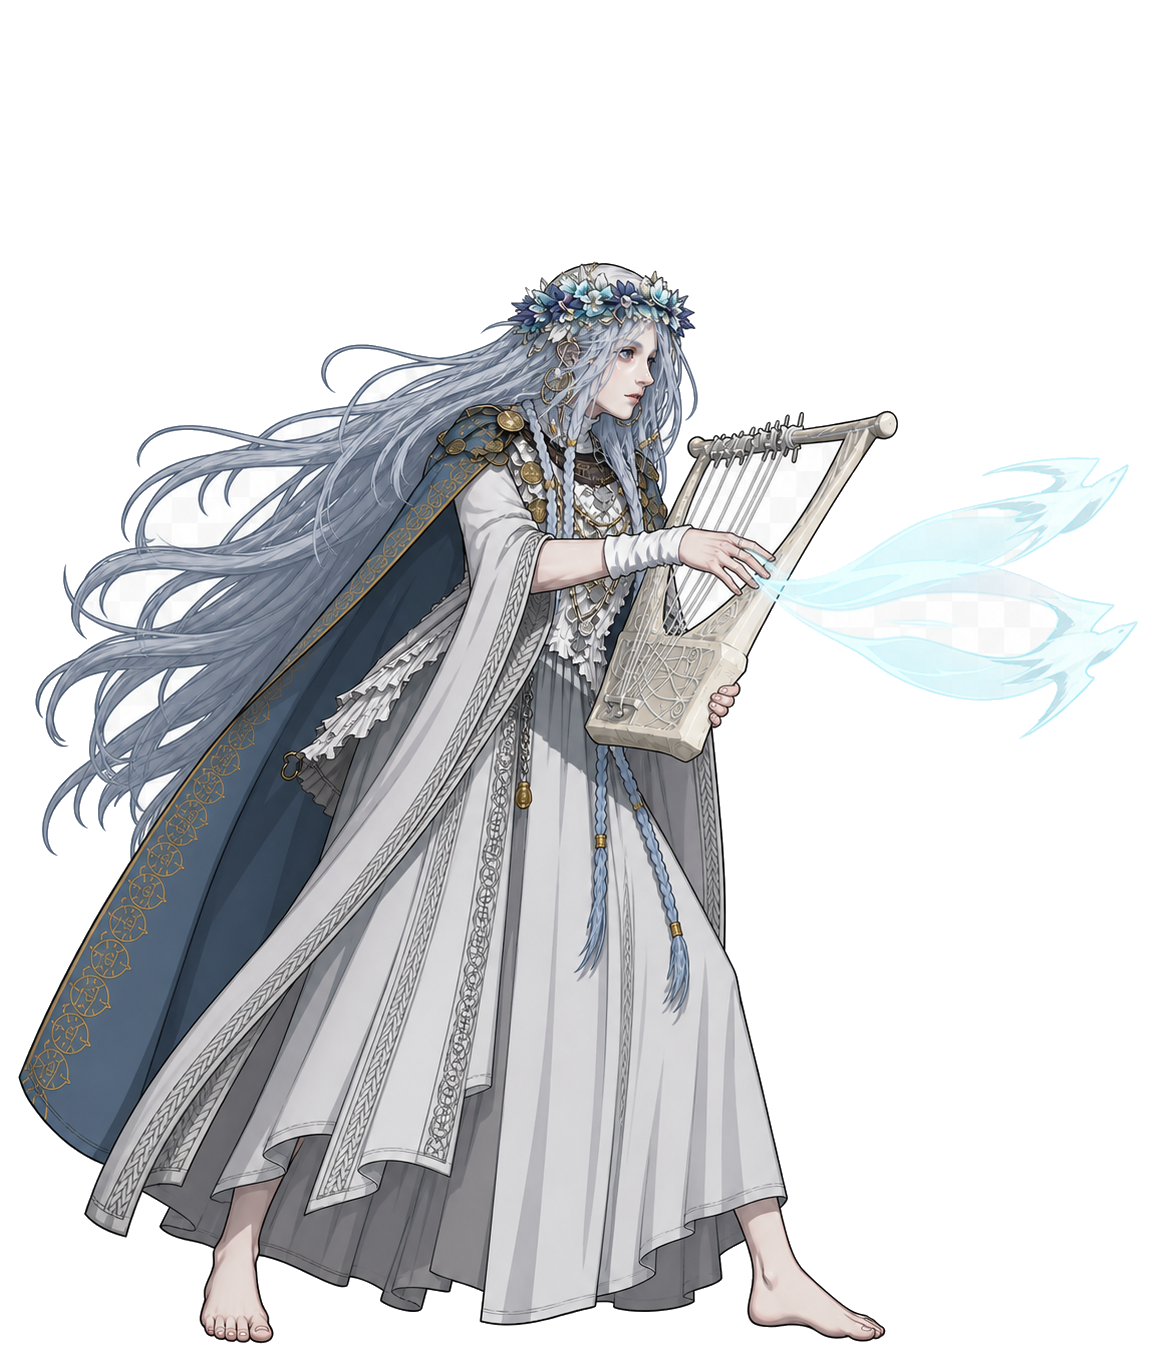
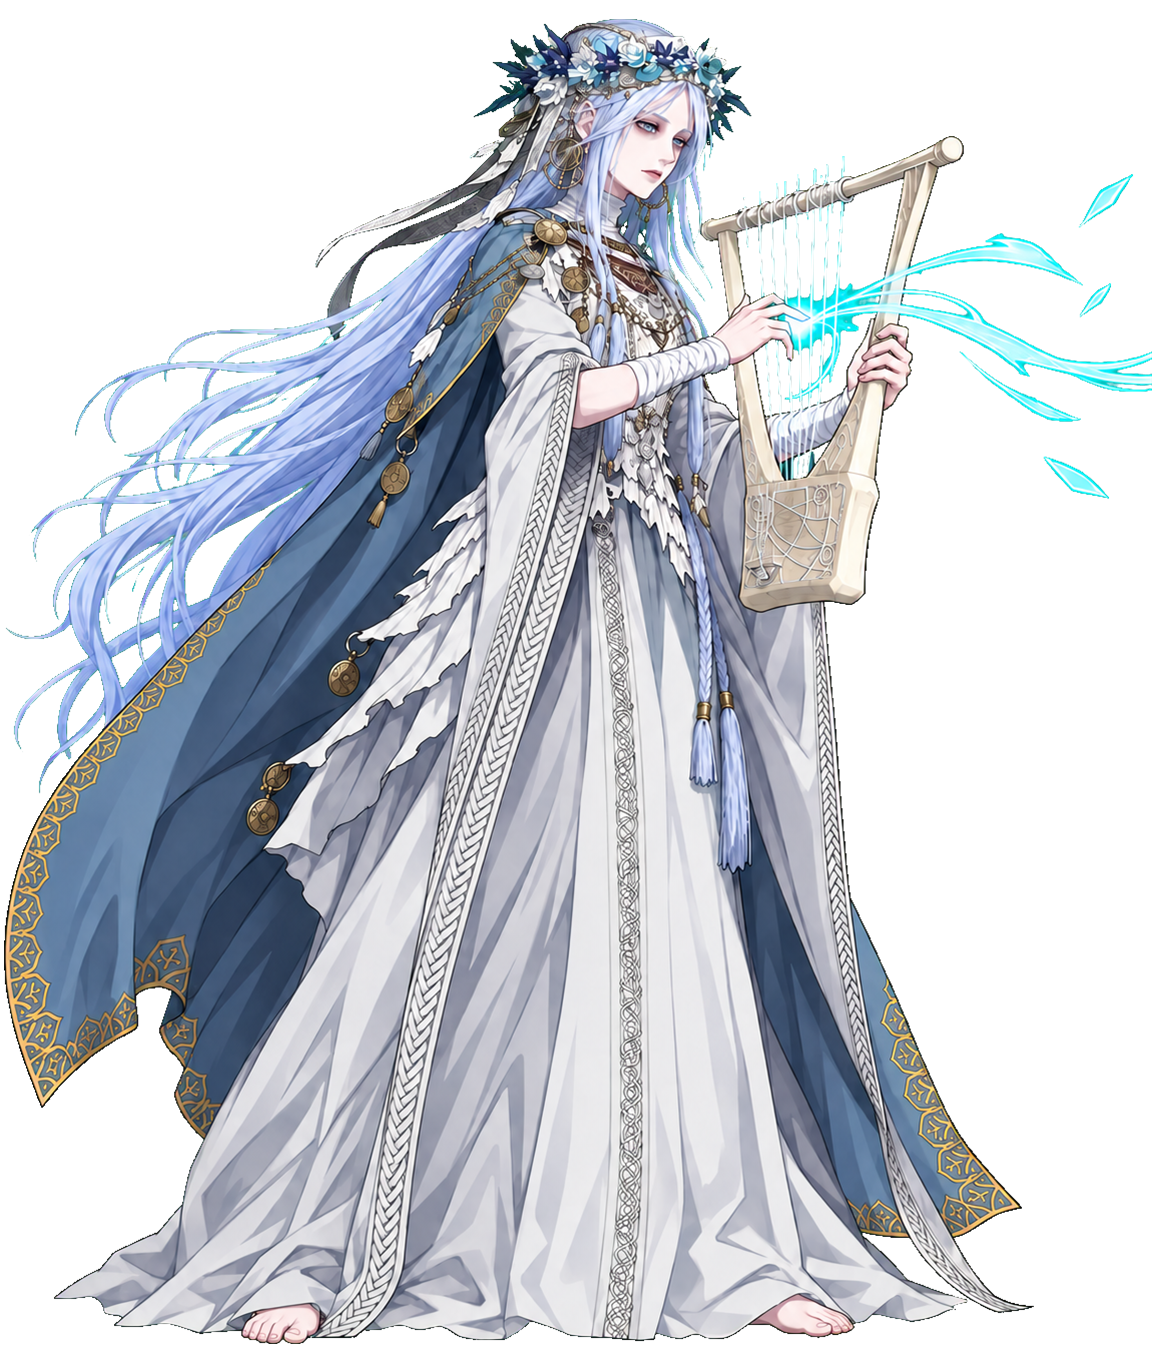
art: finalize Revenant portraits and combat animations

diff --git a/src/Core/Models/Cards/RevenantStarterCards.cs b/src/Core/Models/Cards/RevenantStarterCards.cs
@@ -18,6 +18,7 @@ using NightMustStay.Core.Models.CardPools;
 using NightMustStay.Core.Models.Power;
 
 using NightMustStay.Core.Nodes.Vfx;
+using NightMustStay.Core.Patches;
 
 namespace NightMustStay.Core.Models.Cards;
 
@@ -87,6 +88,7 @@ public sealed class RevenantCall : CardModel
 
     protected override async Task OnPlay(PlayerChoiceContext context, CardPlay cardPlay)
     {
+        RevenantAnimationPatch.PlayCardMotion(this, "Call");
         await ChooseFamilyAndCall(context, Owner);
         if (IsUpgraded)
             await RevenantCardHelpers.AddFromDiscard(this, context, 1, false);
@@ -141,6 +143,7 @@ public sealed class RevenantResonance : CardModel
 
     protected override async Task OnPlay(PlayerChoiceContext context, CardPlay cardPlay)
     {
+        RevenantAnimationPatch.PlayCardMotion(this, "Resonance");
         await RevenantSummonManager.For(Owner).TriggerResonance(context);
         if (!IsUpgraded)
             return;

diff --git a/src/Core/Patches/RevenantAnimationPatch.cs b/src/Core/Patches/RevenantAnimationPatch.cs
@@ -1,6 +1,7 @@
 using Godot;
 using HarmonyLib;
 using MegaCrit.Sts2.Core.Nodes.Combat;
+using MegaCrit.Sts2.Core.Models;
 using NightMustStay.Core.Models.Characters;
 using NightMustStay.Core.Models.Revenant;
 
@@ -39,6 +40,18 @@ public static class RevenantAnimationPatch
     {
         if (TryGetRig(__instance, out Node rig))
             rig.Call("play_trigger", "Revive");
+    }
+
+    public static void PlayCardMotion(CardModel card, string motion)
+    {
+        if (card.Owner?.Creature == null)
+            return;
+        NCreature? creature = NCombatRoom.Instance?.GetCreatureNode(card.Owner.Creature);
+        if (creature != null && TryGetRig(creature, out Node rig))
+        {
+            rig.Call("queue_attack_motion", motion);
+            rig.Call("play_trigger", motion);
+        }
     }
 
     private static bool TryGetRig(NCreature creature, out Node rig)

diff --git a/src/Core/Nodes/Vfx/RevenantAttackEffects.cs b/src/Core/Nodes/Vfx/RevenantAttackEffects.cs
@@ -20,6 +20,7 @@ using MegaCrit.Sts2.Core.ValueProps;
 using NightMustStay.Core.Compatibility;
 using NightMustStay.Core.Models.Cards;
 using NightMustStay.Core.Models.Revenant;
+using NightMustStay.Core.Patches;
 using K = NightMustStay.Core.Nodes.Vfx.RevenantAttackVfx.Kind;
 
 namespace NightMustStay.Core.Nodes.Vfx;
@@ -57,6 +58,8 @@ public static class RevenantAttackEffects
     {
         K? kind = KindFor(card);
         if (kind == null) return command;
+        RevenantAnimationPatch.PlayCardMotion(card,
+            kind is K.CursedClaw or K.BeastClaw ? "Attack" : "Prayer");
         // One outbound ring for the entire attack, rather than one ring per AOE target.
         if (kind == K.HaloOut)
             return command.WithHitFx().WithAttackerFx(() => CreateHaloOut(card, target, null, command.DamageProps));
